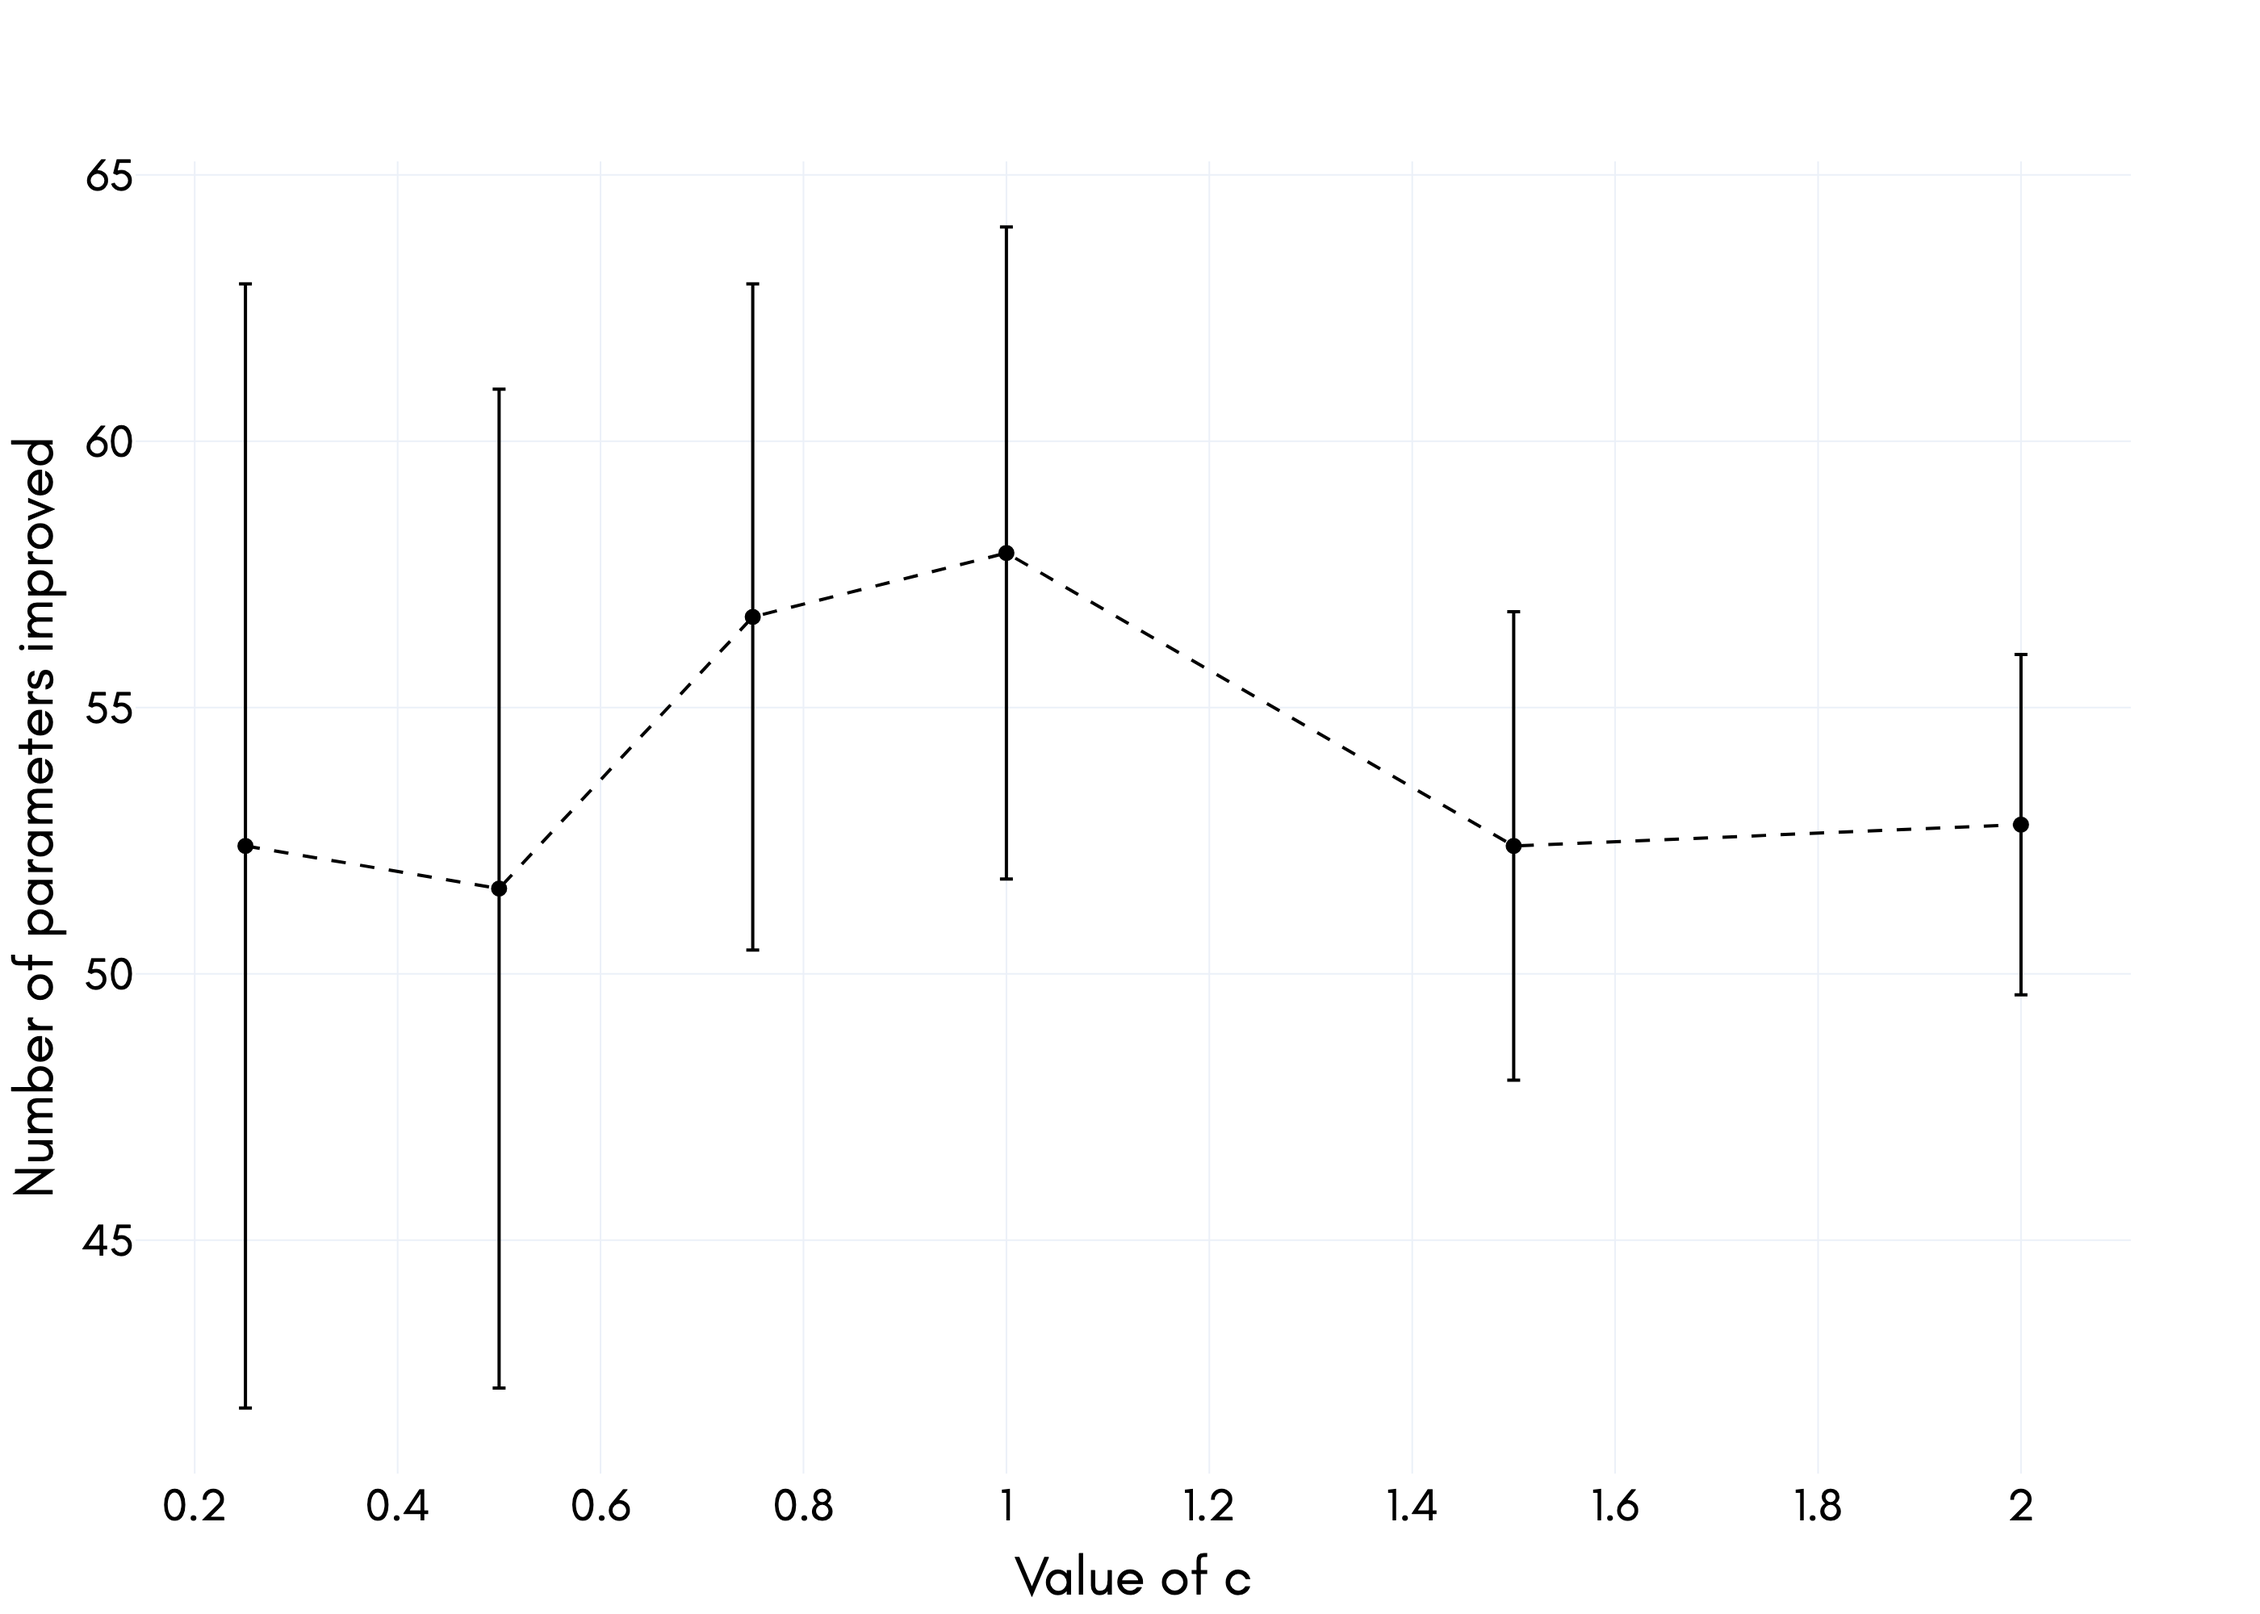
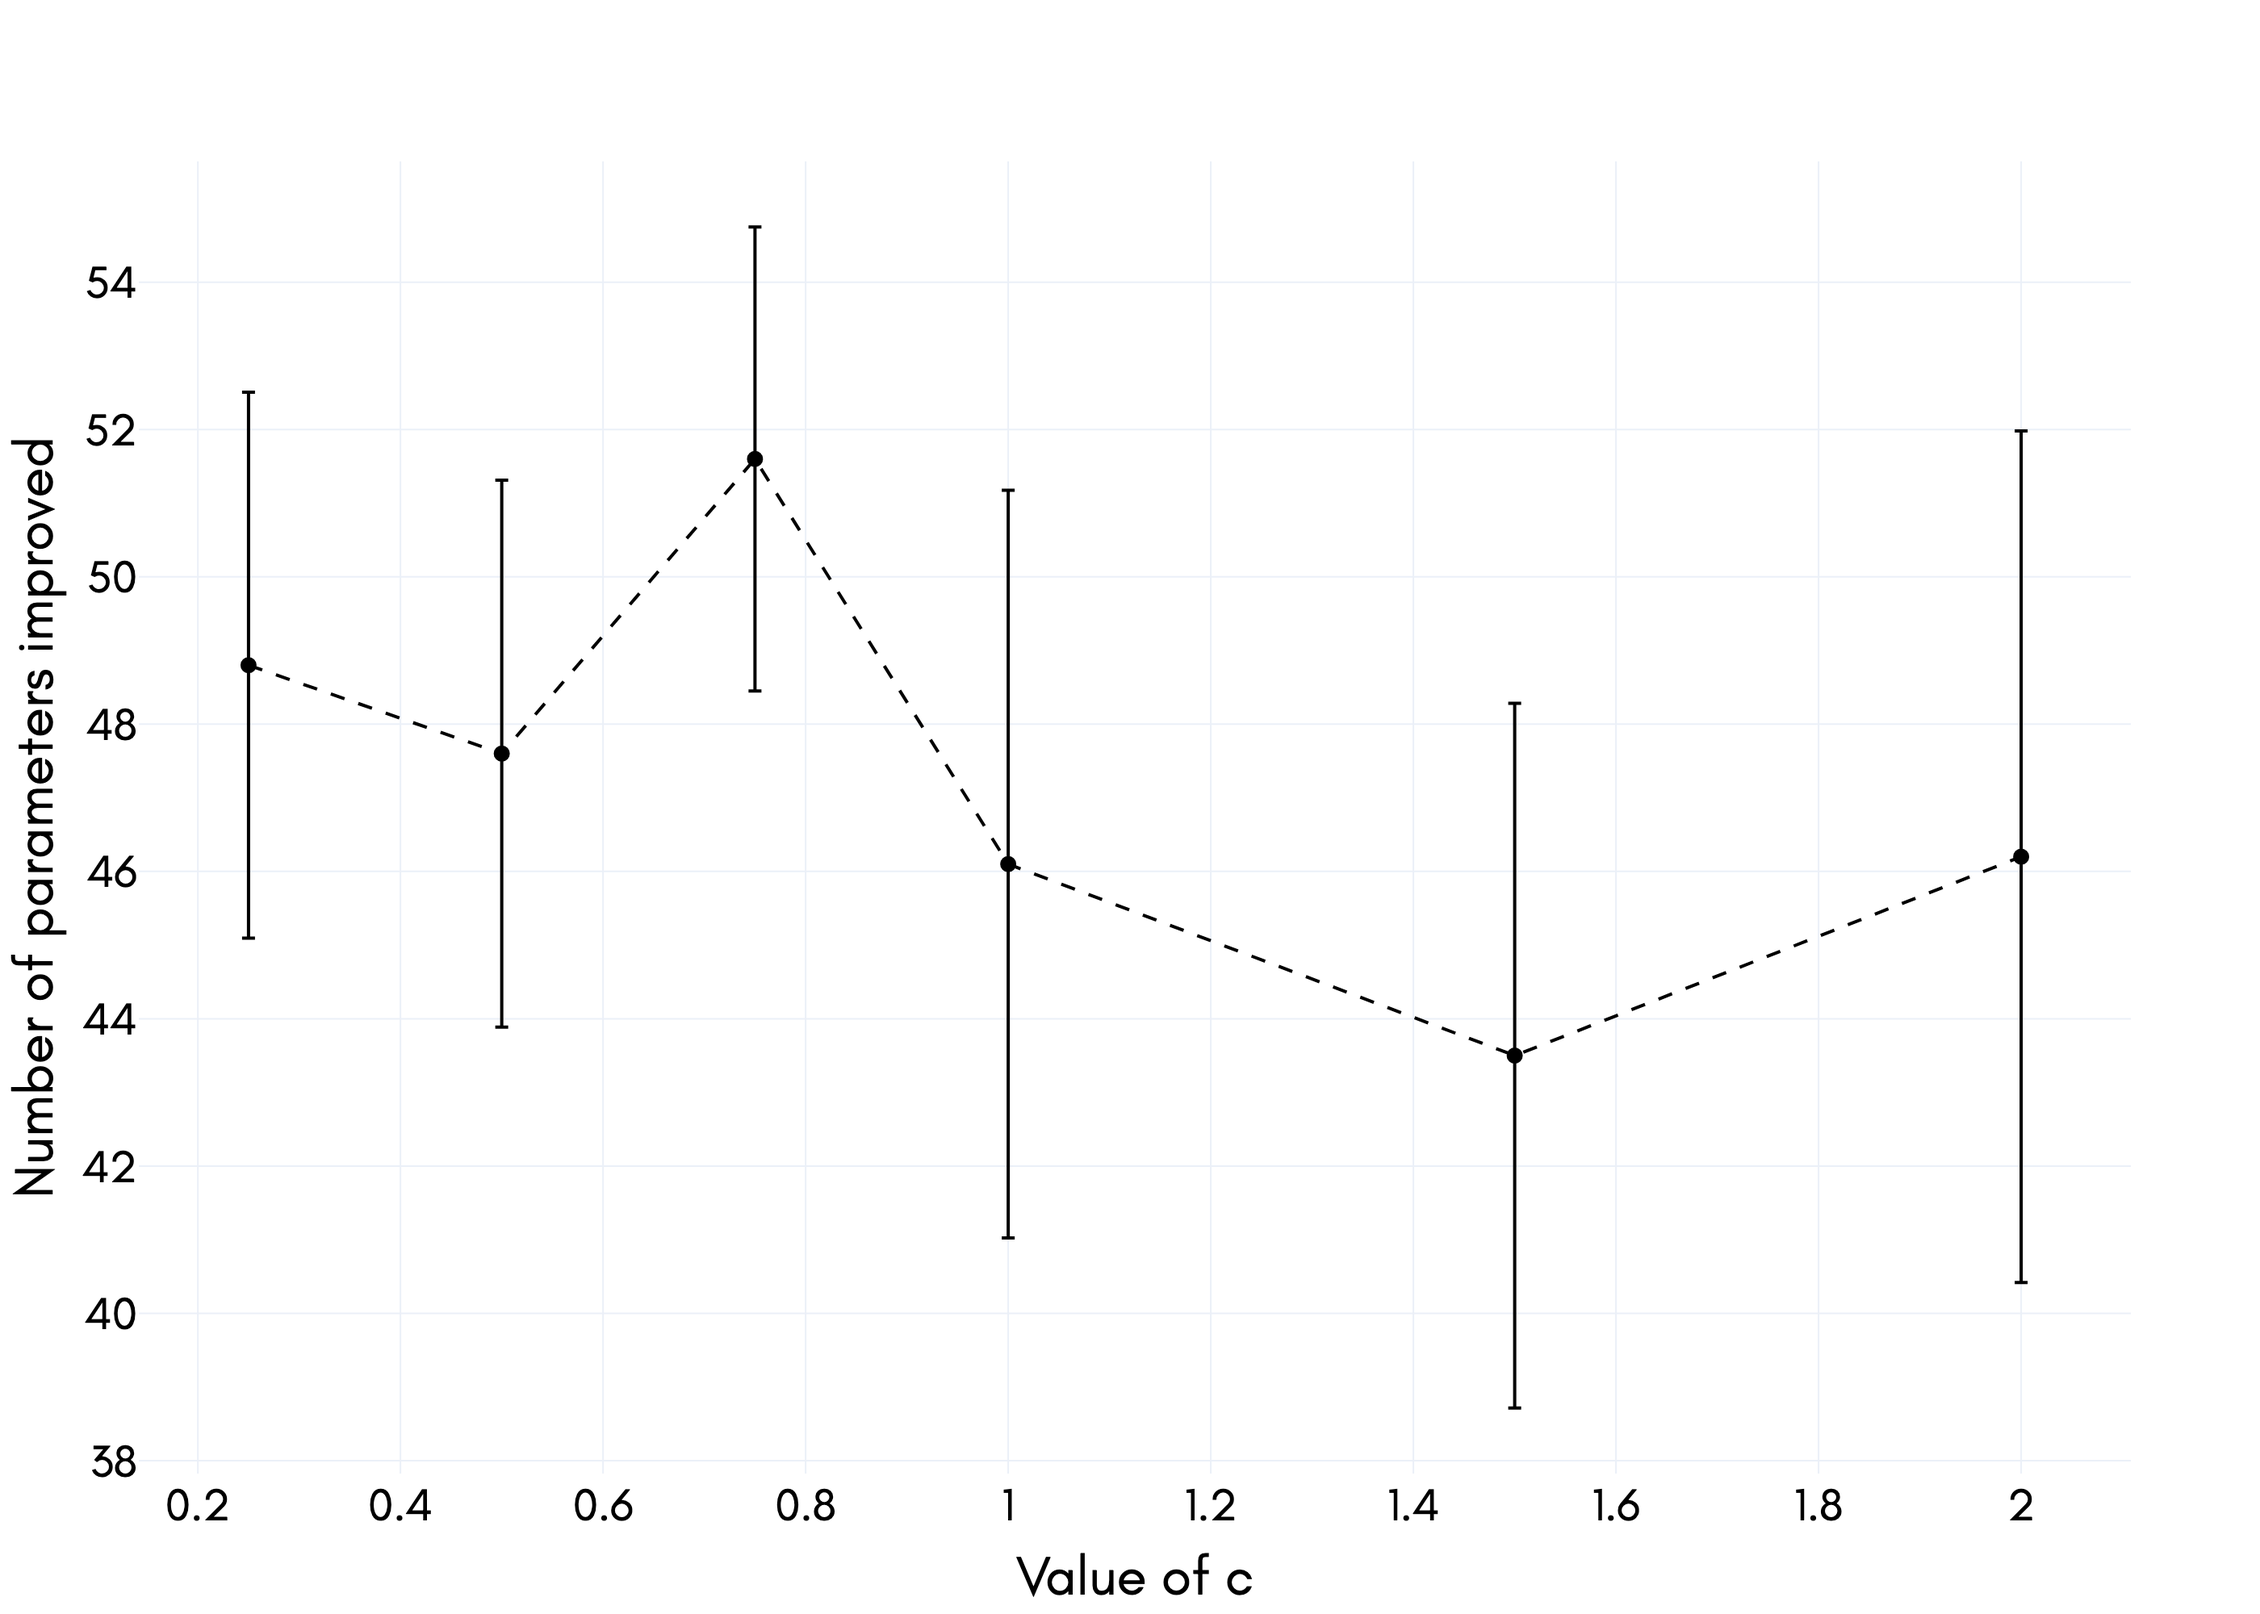
fix mistake

diff --git a/thesis/error_analysis.py b/thesis/error_analysis.py
@@ -18,6 +18,7 @@
 import matplotlib.pyplot as plt
 import numpy as np
 import pandas as pd
+import plotly.express as px
 import plotly.graph_objects as go
 import seaborn as sns
 
@@ -38,6 +39,7 @@ def generate_data():
     experiment_data_generation(
         c_values=c, N_values=N, T_values=T, num_each=neach, prefix="error"
     )
+
 
 sns.set(font_scale=1.2)
 
@@ -248,7 +250,7 @@ def data_to_csv():
             true_likelihoods.append(true_likelihood)
             likelihood_true_temp.append(true_likelihood)
 
-            num_improved = np.sum(error_optim < error_guess)
+            num_improved = np.sum(np.abs(error_optim) < np.abs(error_guess))
             error_guess_norm = np.linalg.norm(error_guess)
             error_optim_norm = np.linalg.norm(error_optim)
             error_guess_temp.append(np.sum(error_guess))
@@ -446,14 +448,17 @@ def heatmap_errors(show: bool = False, save_path: str = None, seaborn: bool = Fa
         hm3.show()
 
     if seaborn:
-        colorbar = {'label': 'Change in Parameter Error', "orientation": "vertical", }
+        colorbar = {
+            "label": "Change in Parameter Error",
+            "orientation": "vertical",
+        }
         hm_sns = sns.heatmap(
-            data=error_optim - error_guess,
+            data=np.abs(error_optim) - np.abs(error_guess),
             vmin=-0.3,
             vmax=0.3,
             linewidths=0.5,
             cmap="twilight",
-            cbar_kws=colorbar
+            cbar_kws=colorbar,
         )
         if show:
             plt.show()
@@ -465,6 +470,54 @@ def heatmap_errors(show: bool = False, save_path: str = None, seaborn: bool = Fa
             hm_sns.figure.savefig(save_path, dpi=300, pad_inches=0)
 
     return hm1, hm2, hm3
+
+
+def convex_and_nonconvex(show: bool = False, save_path: str = None):
+    # Function 1: sin(10x)/x
+    # Function 2: x^2
+
+    x_values = np.linspace(-2, 2, 200)
+    f1_values = [*map(lambda x: np.sin(10 * x) / (x), x_values)]
+    f2_values = [*map(lambda x: x ** 2, x_values)]
+
+    fig = go.Figure()
+
+    fig.add_trace(
+        go.Scatter(
+            x=x_values,
+            y=f1_values,
+            mode="lines",
+            name="Nonconvex",
+            line=dict(color="red"),
+        )
+    )
+
+    fig.add_trace(
+        go.Scatter(
+            x=x_values,
+            y=f2_values,
+            mode="lines",
+            name="Convex",
+            line=dict(color="blue"),
+        )
+    )
+
+    fig.update_layout(
+        font_family="Glacial Indifference",
+        font_color="black",
+        font_size=18,
+        xaxis_title="x",
+        legend_title_font_color="black",
+        template="plotly_white",
+    )
+
+    if show:
+        fig.show()
+
+    if save_path is not None:
+        fig.write_image(save_path, height=1000, width=1400, scale=2, format="png")
+
+    return fig
 
 
 # ----
@@ -480,6 +533,7 @@ def main():
     heatmap_errors(
         show=True, save_path="figures/heatmap_improved_params.png", seaborn=True
     )
+    convex_and_nonconvex(show=False, save_path="figures/convexity_example.png")
 
 
 if __name__ == "__main__":
